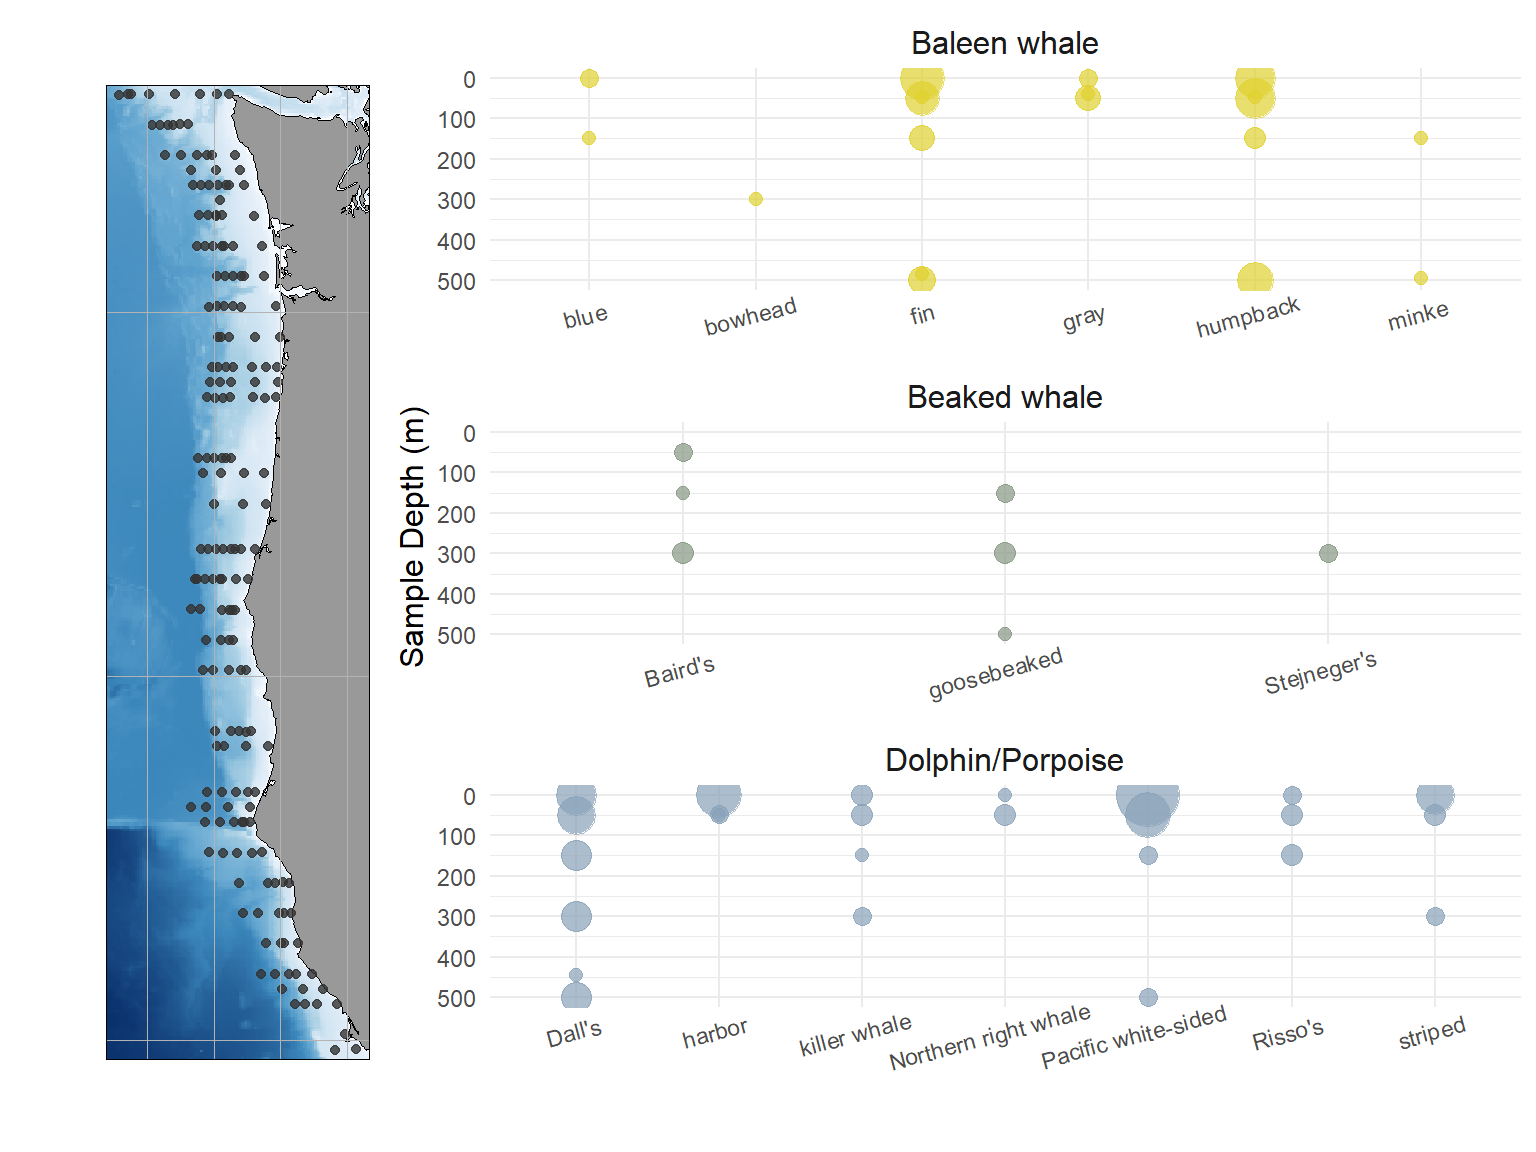
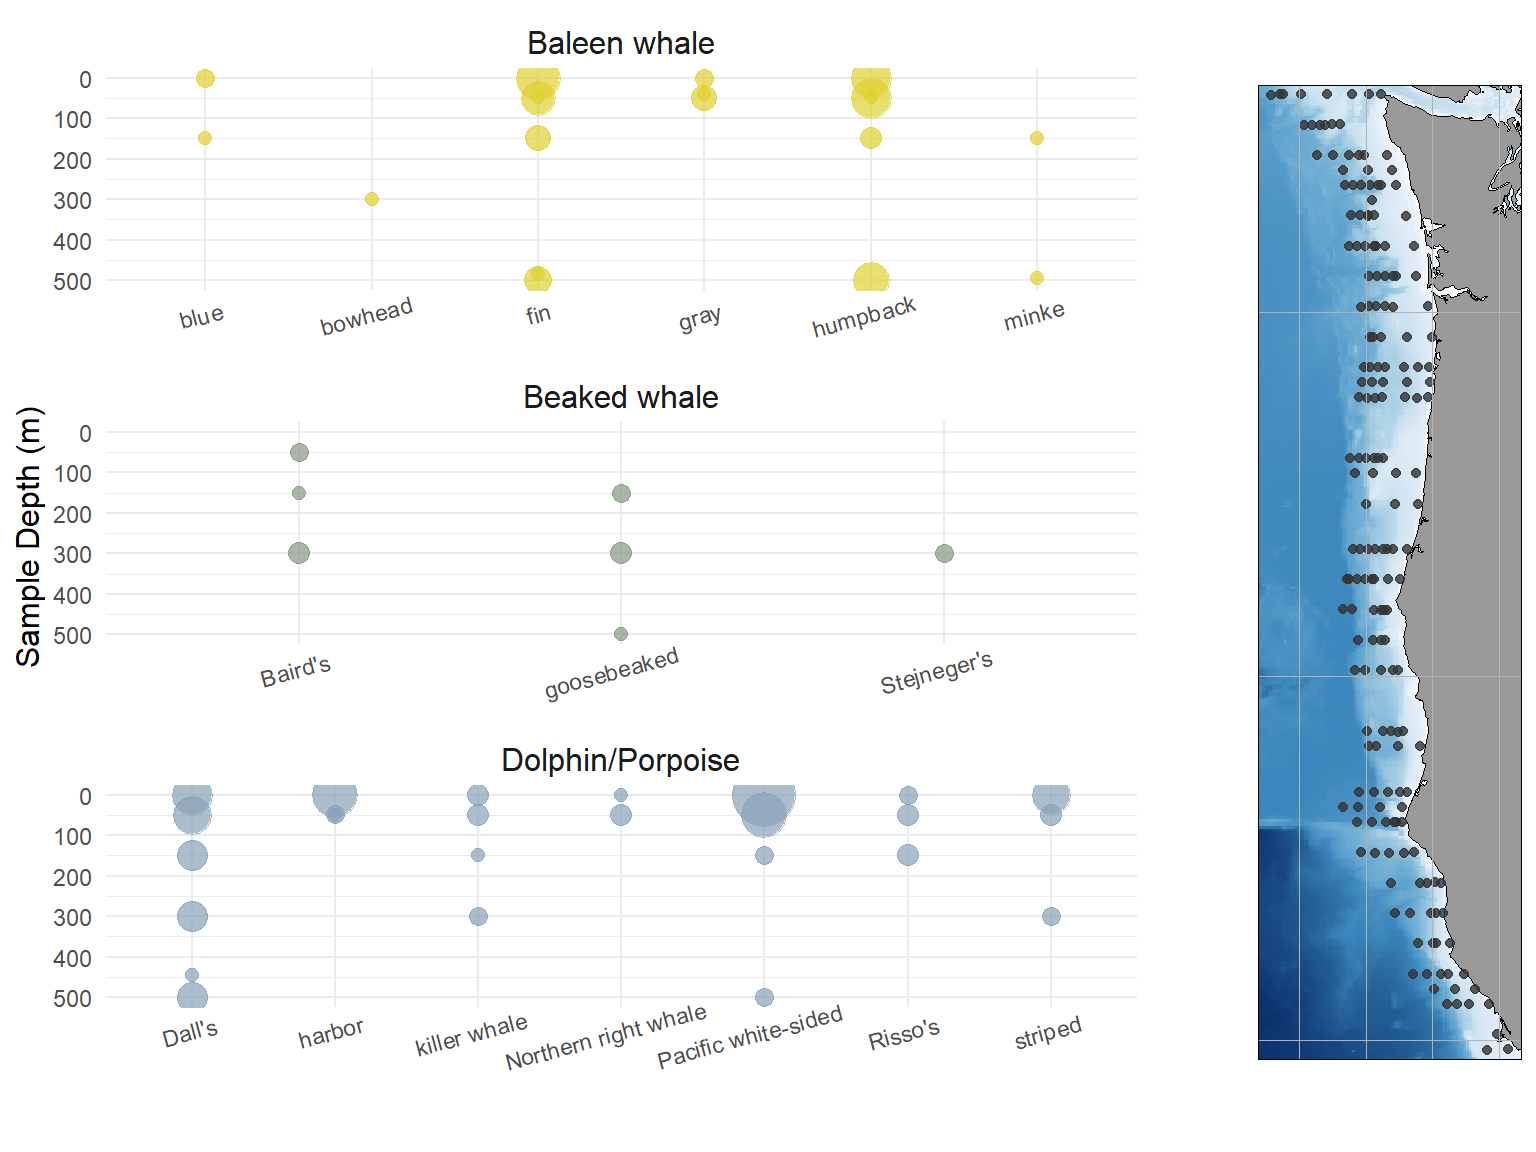
Update manuscript doc AVC 10/6/2025

diff --git a/docs/index.html b/docs/index.html
@@ -137,7 +137,7 @@ ul.task-list li input[type="checkbox"] {
 <section id="results" class="level2">
 <h2 class="anchored" data-anchor-id="results">Results</h2>
 <p>We selected 573 water samples collected at 182 unique locations during the 2019 NOAA hake abundance survey (<a href="#fig-bubble" class="quarto-xref">Figure&nbsp;1</a>), targeting 0, 50, 150, 300, and 500 m sampling depths at each station. Where the bottom was less than 500 m deep, we did not collect a sample at 500 m. We amplified and sequenced these samples in 1 technical replicate using MFU, 3 technical replicates using MV1, and 3-5 technical replicates using DL, resulting in a final total of 1568 amplified and sequenced samples.</p>
-<p>Across all samples, we observed 462 positive detections of 16 cetacean species. <a href="#fig-bubble" class="quarto-xref">Figure&nbsp;1</a> illustrates the distribution of detections across sampling depths, ignoring x-y distribution, for all cetacean species included in the study.</p>
+<p>Across all samples, we observed 462 positive detections of 16 cetacean species, including 6 baleen whale species, 5 dolphin species, 2 porpoise species, and 3 beaked whale species (Table 1). <a href="#fig-bubble" class="quarto-xref">Figure&nbsp;1</a> illustrates the distribution of detections across sampling depths, ignoring x-y distribution, for all cetacean species included in the study.</p>
 <div class="cell">
 <div class="cell-output-display">
 <div id="fig-bubble" class="quarto-float quarto-figure quarto-figure-center anchored">
@@ -146,7 +146,7 @@ ul.task-list li input[type="checkbox"] {
 <img src="index_files/figure-html/fig-bubble-1.png" class="img-fluid figure-img" width="768">
 </div>
 <figcaption class="quarto-float-caption-bottom quarto-float-caption quarto-float-fig" id="fig-bubble-caption-0ceaefa1-69ba-4598-a22c-09a6ac19f8ca">
-Figure&nbsp;1: Left: Geographic distribution of samples used in this study, acquired from water collected during a 2019 survey of hake distribution in the California Current. Right: Distribution of detections across sampling depths for all species included in the study. Species are grouped as follows: Baleen whales includes the Balaenopteridae, Balaenidae, and Eschericthidae; Dolphins/Porpoises includes all Delphinidae and Phocoenidae; Beaked whales includes all Ziphiidae.
+Figure&nbsp;1: Left: Distribution of detections across sampling depths for all species included in the study. Species are grouped as follows: Baleen whales includes the Balaenopteridae, Balaenidae, and Eschericthidae; Dolphins/Porpoises includes all Delphinidae and Phocoenidae; Beaked whales includes all Ziphiidae. Right: Geographic distribution of samples used in this study, acquired from water collected during a 2019 survey of hake distribution in the California Current.
 </figcaption>
 </figure>
 </div>
@@ -154,14 +154,42 @@ Figure&nbsp;1: Left: Geographic distribution of samples used in this study, acqu
 </div>
 <section id="question-1-does-pod-vary-with-depth-1" class="level3">
 <h3 class="anchored" data-anchor-id="question-1-does-pod-vary-with-depth-1">Question 1: Does POD vary with depth?</h3>
-<p>GAM-based model selection of detection probability across sampling depths negated the null hypothesis of no variation across depth, and indicated that the best alternative model allows probability of detection to vary by sampling depth on a species-specific basis (AIC = XXX).</p>
+<p>GAM-based model selection of detection probability across sampling depths negated the null hypothesis of no variation across depth, and indicated that the best alternative model allows probability of detection to vary by t (AIC = XXX).</p>
 <p><em>For each of the three “ecological” strata and the time-at-depth model, describe significance and report AIC. In the discussion, talk about how these strata may be used to guide sampling for lesser known-species - e.g.&nbsp;if we don’t have any information about a particular baleen whale species, we might let the prey distribution model guide our sampling strategy and choose to sample at 50-100m and ~300m (where poop is).</em></p>
+<div class="cell">
+<div class="cell-output-display">
+<div id="fig-H1POD" class="quarto-float quarto-figure quarto-figure-center anchored">
+<figure class="quarto-float quarto-float-fig figure">
+<div aria-describedby="fig-H1POD-caption-0ceaefa1-69ba-4598-a22c-09a6ac19f8ca">
+<img src="index_files/figure-html/fig-H1POD-1.png" class="img-fluid figure-img" width="960">
+</div>
+<figcaption class="quarto-float-caption-bottom quarto-float-caption quarto-float-fig" id="fig-H1POD-caption-0ceaefa1-69ba-4598-a22c-09a6ac19f8ca">
+Figure&nbsp;2: Left: Species-specific probability of detection across all depths sampled in this study. Solid line shows POD; shaded region shows 95% confidence interval. Dashed line shows proportional time at depth. Species abbreviation codes can be found in Table 1; plots are colored by taxonomic category as outlined in Table 1. Right: Probability of detection across depths sampled in this study for species stratified based on broad prey categories.
+</figcaption>
+</figure>
+</div>
+</div>
+</div>
 <section id="question-2-does-depth-variability-in-pod-covary-with-observation-bias-1" class="level4">
 <h4 class="anchored" data-anchor-id="question-2-does-depth-variability-in-pod-covary-with-observation-bias-1">Question 2: Does depth variability in POD covary with observation bias?</h4>
 </section>
 <section id="question-3-does-depth-variability-in-pod-covary-with-xy-variability-1" class="level4">
 <h4 class="anchored" data-anchor-id="question-3-does-depth-variability-in-pod-covary-with-xy-variability-1">Question 3: Does depth variability in POD covary with xy variability?</h4>
 <p><em>Depth does covary with xy. Don’t go so far as to make 3D maps here (those will go in the Big Product, but maybe choose 1-2 species with the most samples/highest significant and 1) make figures showing depth variability at 3 latitudes holding longitude constant, and 2) figures showing depth variability at 3 longitudes holding latitude constant.</em></p>
+<div class="cell">
+<div class="cell-output-display">
+<div id="fig-H3PODlat" class="quarto-float quarto-figure quarto-figure-center anchored">
+<figure class="quarto-float quarto-float-fig figure">
+<div aria-describedby="fig-H3PODlat-caption-0ceaefa1-69ba-4598-a22c-09a6ac19f8ca">
+<img src="index_files/figure-html/fig-H3PODlat-1.png" class="img-fluid figure-img" width="672">
+</div>
+<figcaption class="quarto-float-caption-bottom quarto-float-caption quarto-float-fig" id="fig-H3PODlat-caption-0ceaefa1-69ba-4598-a22c-09a6ac19f8ca">
+Figure&nbsp;3: Latitude-driven variability in POD across three species included in this study; species chosen were those with the largest number of detections in each of the three broad taxonomic categories included in the study. POD was estimated at three latitudes, representing the high, low, and middle latitudes of the study survey area. Longitude is constant.
+</figcaption>
+</figure>
+</div>
+</div>
+</div>
 </section>
 </section>
 </section>
@@ -172,7 +200,8 @@ Figure&nbsp;1: Left: Geographic distribution of samples used in this study, acqu
 <ol type="1">
 <li><p>Sampling depth matters. To target rare species, optimizing sampling depth could increase detection rates and improve xy distributional models while minimizing cost.</p></li>
 <li><p>Sampling depth varies by species, and roughly according to some basic ecological principles, e.g.&nbsp;generally eDNA was found where the animals spend most of their time, and prey type was indicative of POD across depth.</p></li>
-<li><p>Notable caveats are: whalefall and poop (the latter mostly noticeable for baleen whales). <em>Include some figures of potential whalefall here or in supplement? Or add this as an explicit method/result? Include poop sinking equations here or in a supplement?</em></p>
+<li><p>Notable caveats are: whalefall and poop (the latter mostly noticeable for baleen whales). <em>Include some figures of potential whalefall here or in supplement? Or add this as an explicit method/result? Include poop sinking equations here or in a supplement?</em></p></li>
+<li><p>Beaked whale distributions are poorly understood and could be improved the most by eDNA sampling/monitoring. Talk here about how eDNA depth distributions compare to what we know about beaked whale distributions, e.g.&nbsp;two of the detected species are found most often around 300m, where they are thought to take resting dives. (Is this where they spend most of their time according to Navy reports?) Stejnegers was found deeper. Sampling deeper than 500m may increase detection for deeper diving beaked whales, e.g.&nbsp;some of the ones that are almost never detected at the surface.</p>
 <h4 id="question-2" class="anchored">Question 2:</h4></li>
 <li><p>Increasing technical replication (and primer specificity?) increases POD. <em>and this covaries with depth effect?</em></p>
 <h4 id="question-3" class="anchored">Question 3:</h4></li>
